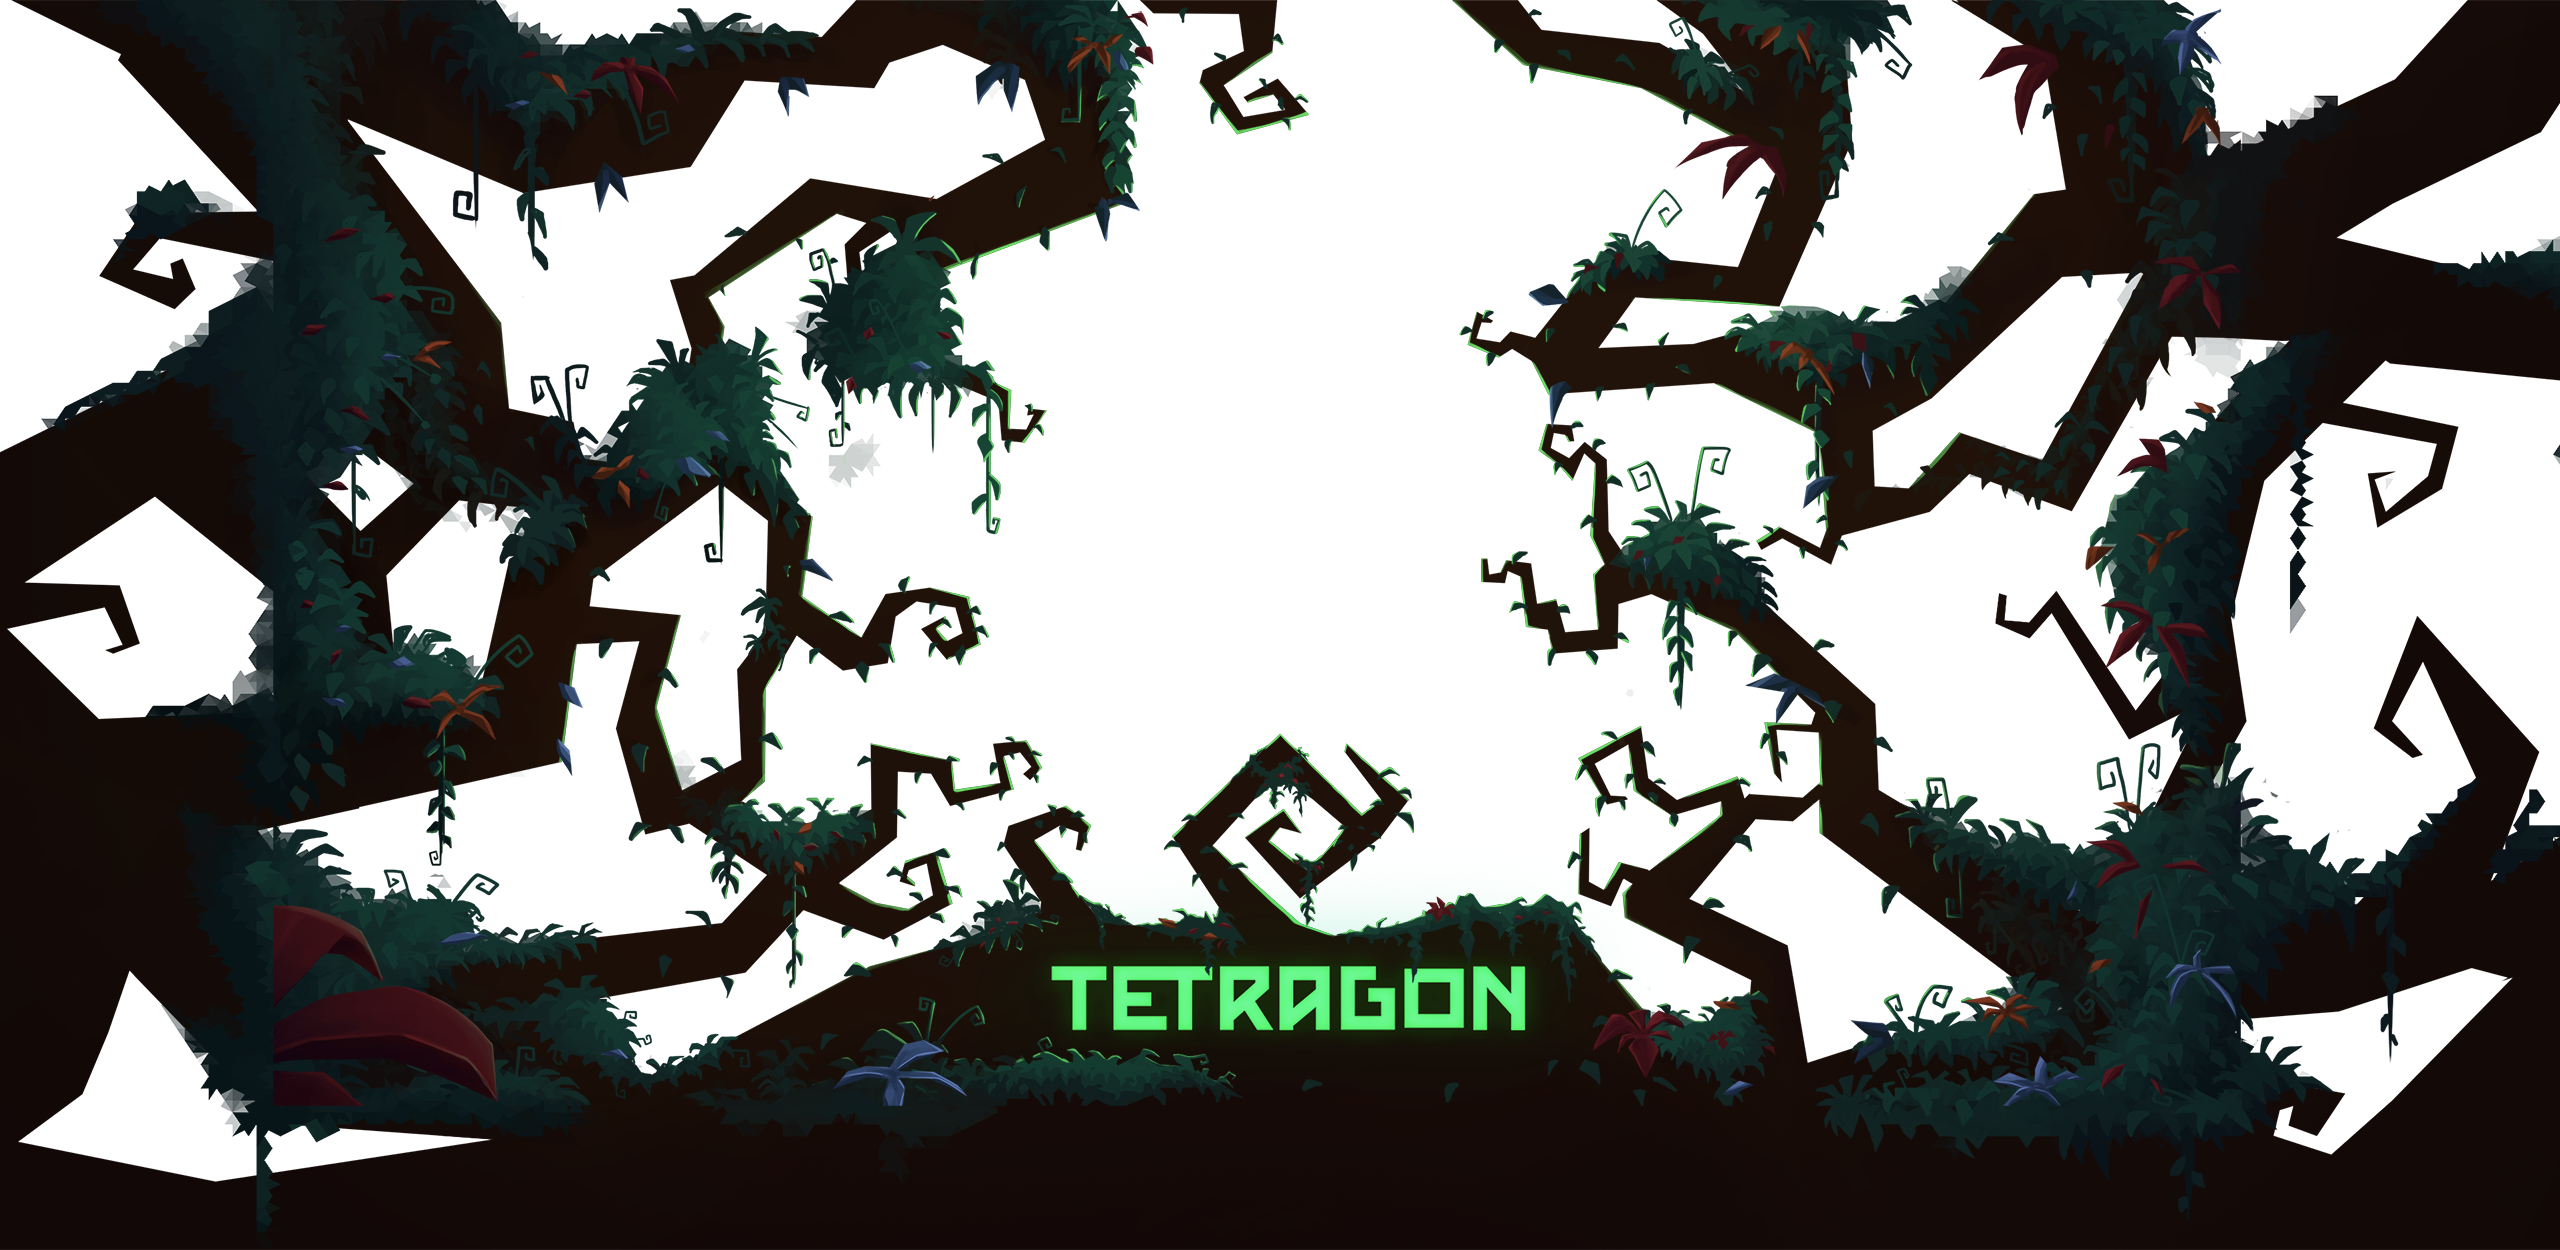
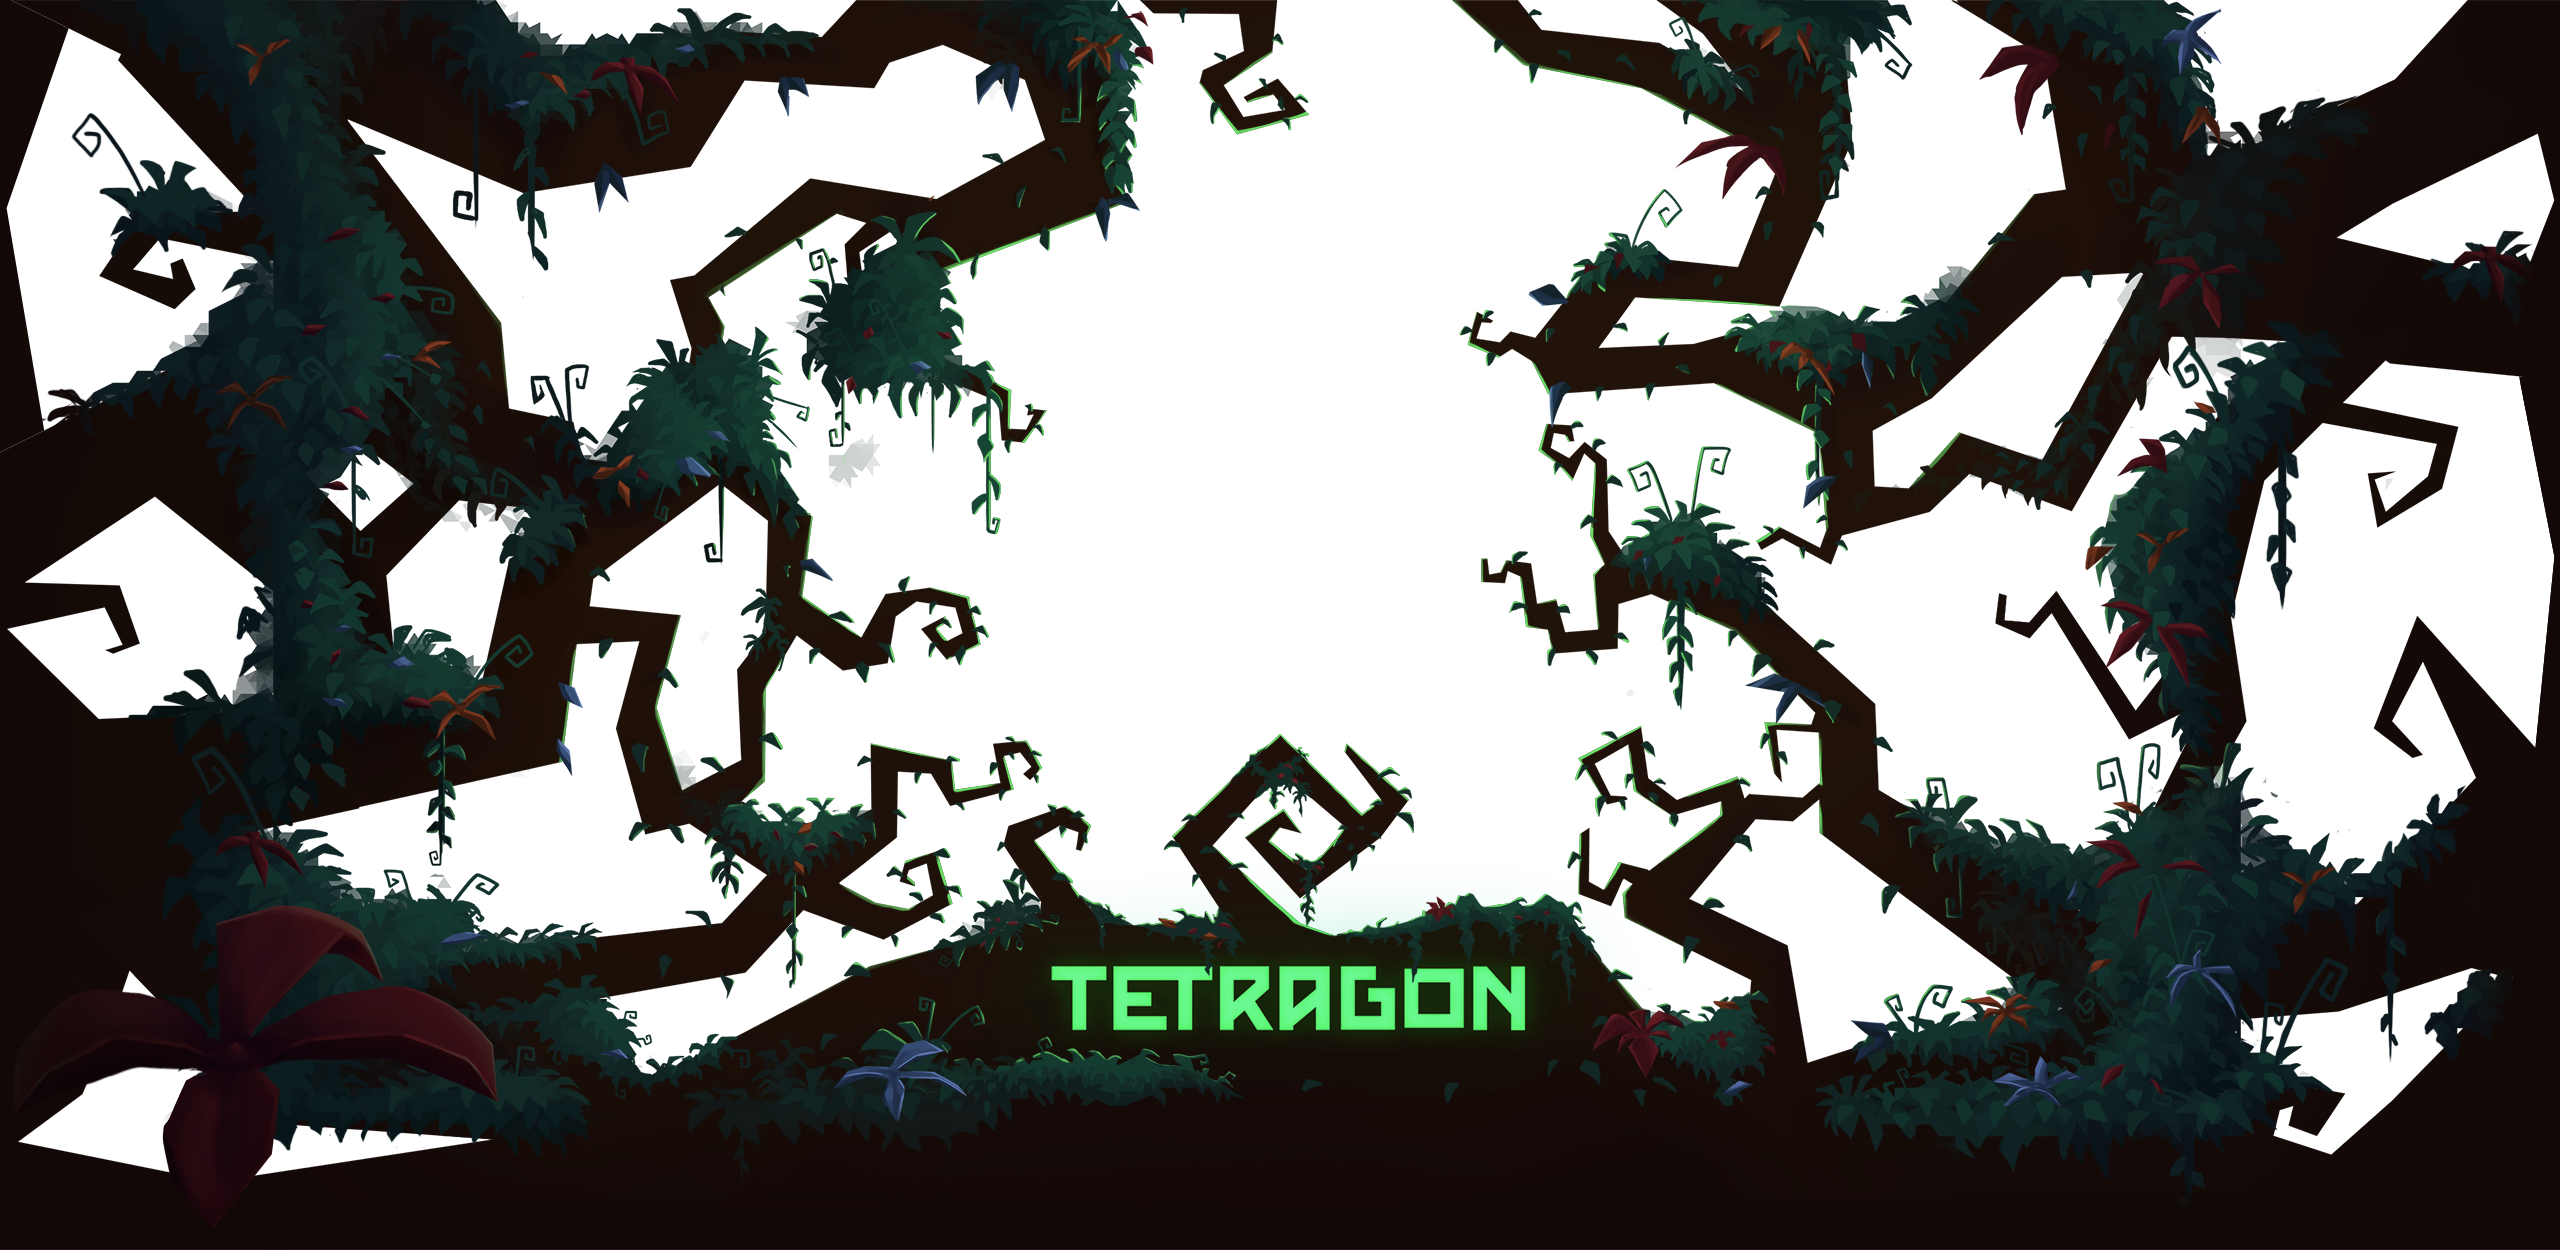
ADD:Parallax on x

diff --git a/js/main.js b/js/main.js
@@ -1,24 +1,44 @@
 $(function () {
+        var parallaxMouseStrenght = 50;
+
+        var offsetX = 0;        
+        var offsetY = 0;
+        var top = 0;
         resizeContentMargin();
     
-        window.addEventListener("scroll", function(event){            
-            var top = this.pageYOffset;
+        $(window).scroll(function(event){            
+            top = this.pageYOffset;           
+            applyParallax();
+        });
+        
+    
+        function resizeContentMargin(){
+            var height = $('[data-parallax]').height();    
+            $('[data-content]').css("margin-top",height*1.14);
+        }
 
-            var layers = document.getElementsByClassName("parallax");
+        function applyParallax(){
+            var layers = $('.parallax');
             var layer, speed, yPos;
             for (var i = 0; i < layers.length; i++) {
                 layer = layers[i];
-                speed = layer.getAttribute('data-speed');
-                var yPos = -(top * speed / 100);
-                layer.setAttribute('style', 'transform: translate3d(-50%, ' + yPos + 'px, 0px)');
-
+                speed = $(layer).attr('data-speed');
+                var yPos = -((top+offsetY) * speed / 100);
+                var xPos = -(offsetX * speed/100);
+                $(layer).css('transform', 'translate3d(calc(-50% - '+xPos+'px), ' + yPos + 'px, 0px)');
             }
-        });
-    
-        function resizeContentMargin(){
-            var height = $('#parallax-header').height();    
-            $('#content').css("margin-top",height*1.14);
+        }
+
+        function onMouseMove(event) {
+            var winWindth = $(window).width();
+            var winHeight = $(window).height();
+
+            offsetX = parallaxMouseStrenght* event.pageX/winWindth;
+            //offsetY = parallaxMouseStrenght* event.pageY/winHeight;
+
+            applyParallax();
         }
 
         $(window).resize(resizeContentMargin);
+        $(window).mousemove(onMouseMove);
 });

diff --git a/index.html b/index.html
@@ -14,7 +14,7 @@
     </head>
     <body>
         <div class="container.fluid h-100">
-            <div class="row h-100  align-items-center fixed-top" id="parallax-header">                        
+            <div class="row h-100  align-items-center fixed-top" data-parallax>                        
                 <div class="col-12 h-100">                
                     <img class="fit-screen keyart_layer parallax" data-speed="2" src="img/parallax/parallaxe0.png">
                     <img class="fit-screen keyart_layer parallax" data-speed="10" src="img/parallax/parallaxe1.png">
@@ -40,7 +40,7 @@
                 <!-- </div>                        -->
             </div>
 
-            <div class="row content" id="content">      
+            <div class="row content" data-content>      
                     <div class="col"></div>                    
             </div>
         </div>       

diff --git a/css/style.css b/css/style.css
@@ -4,6 +4,7 @@ html {
 
 body { 
     height: 100%; 
+    background-color: #120807;
 }
 
 .content{
